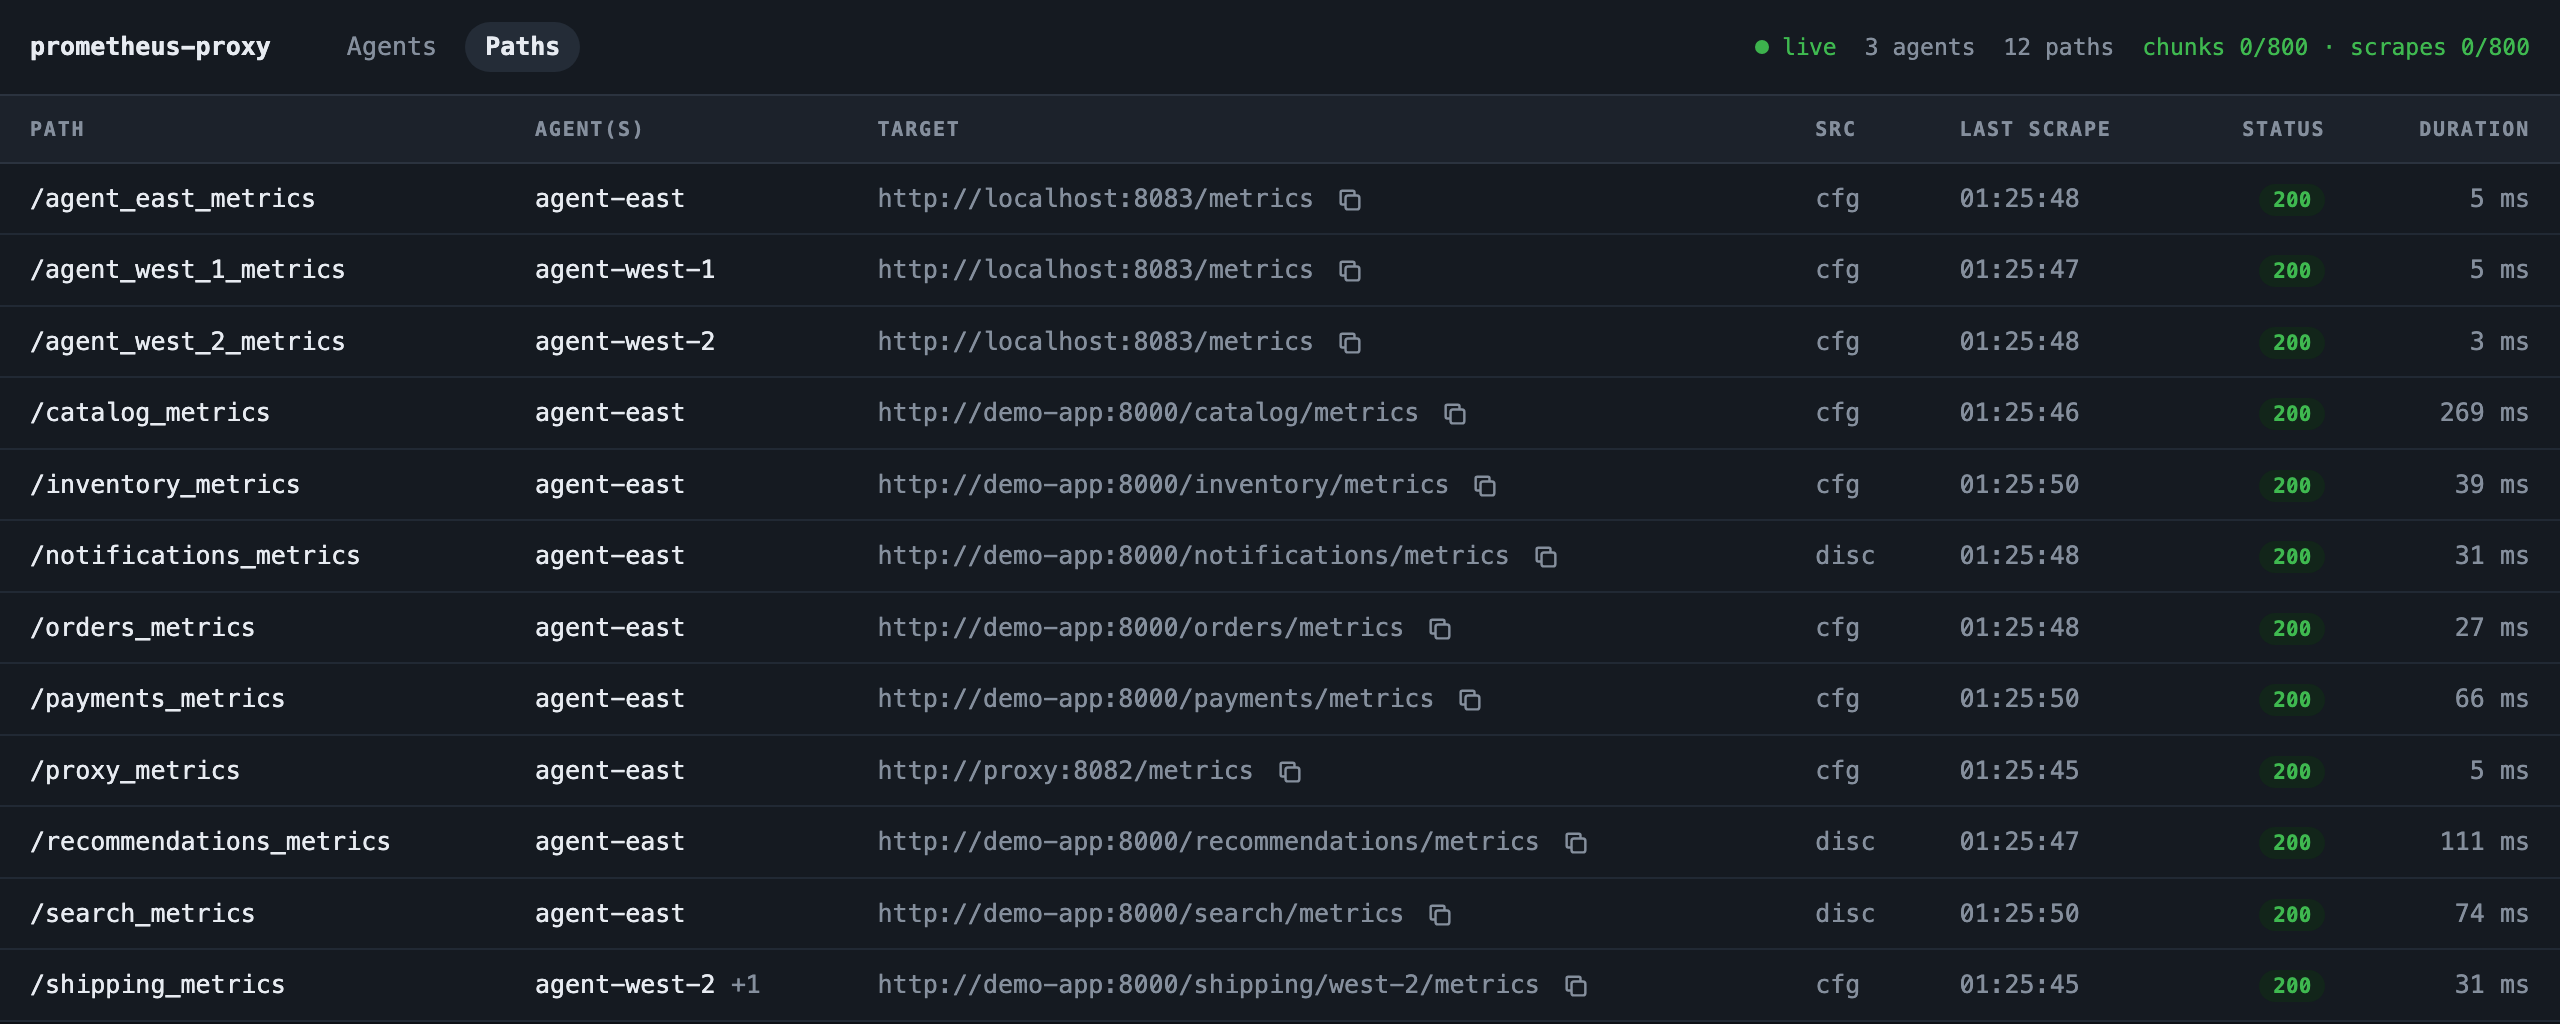
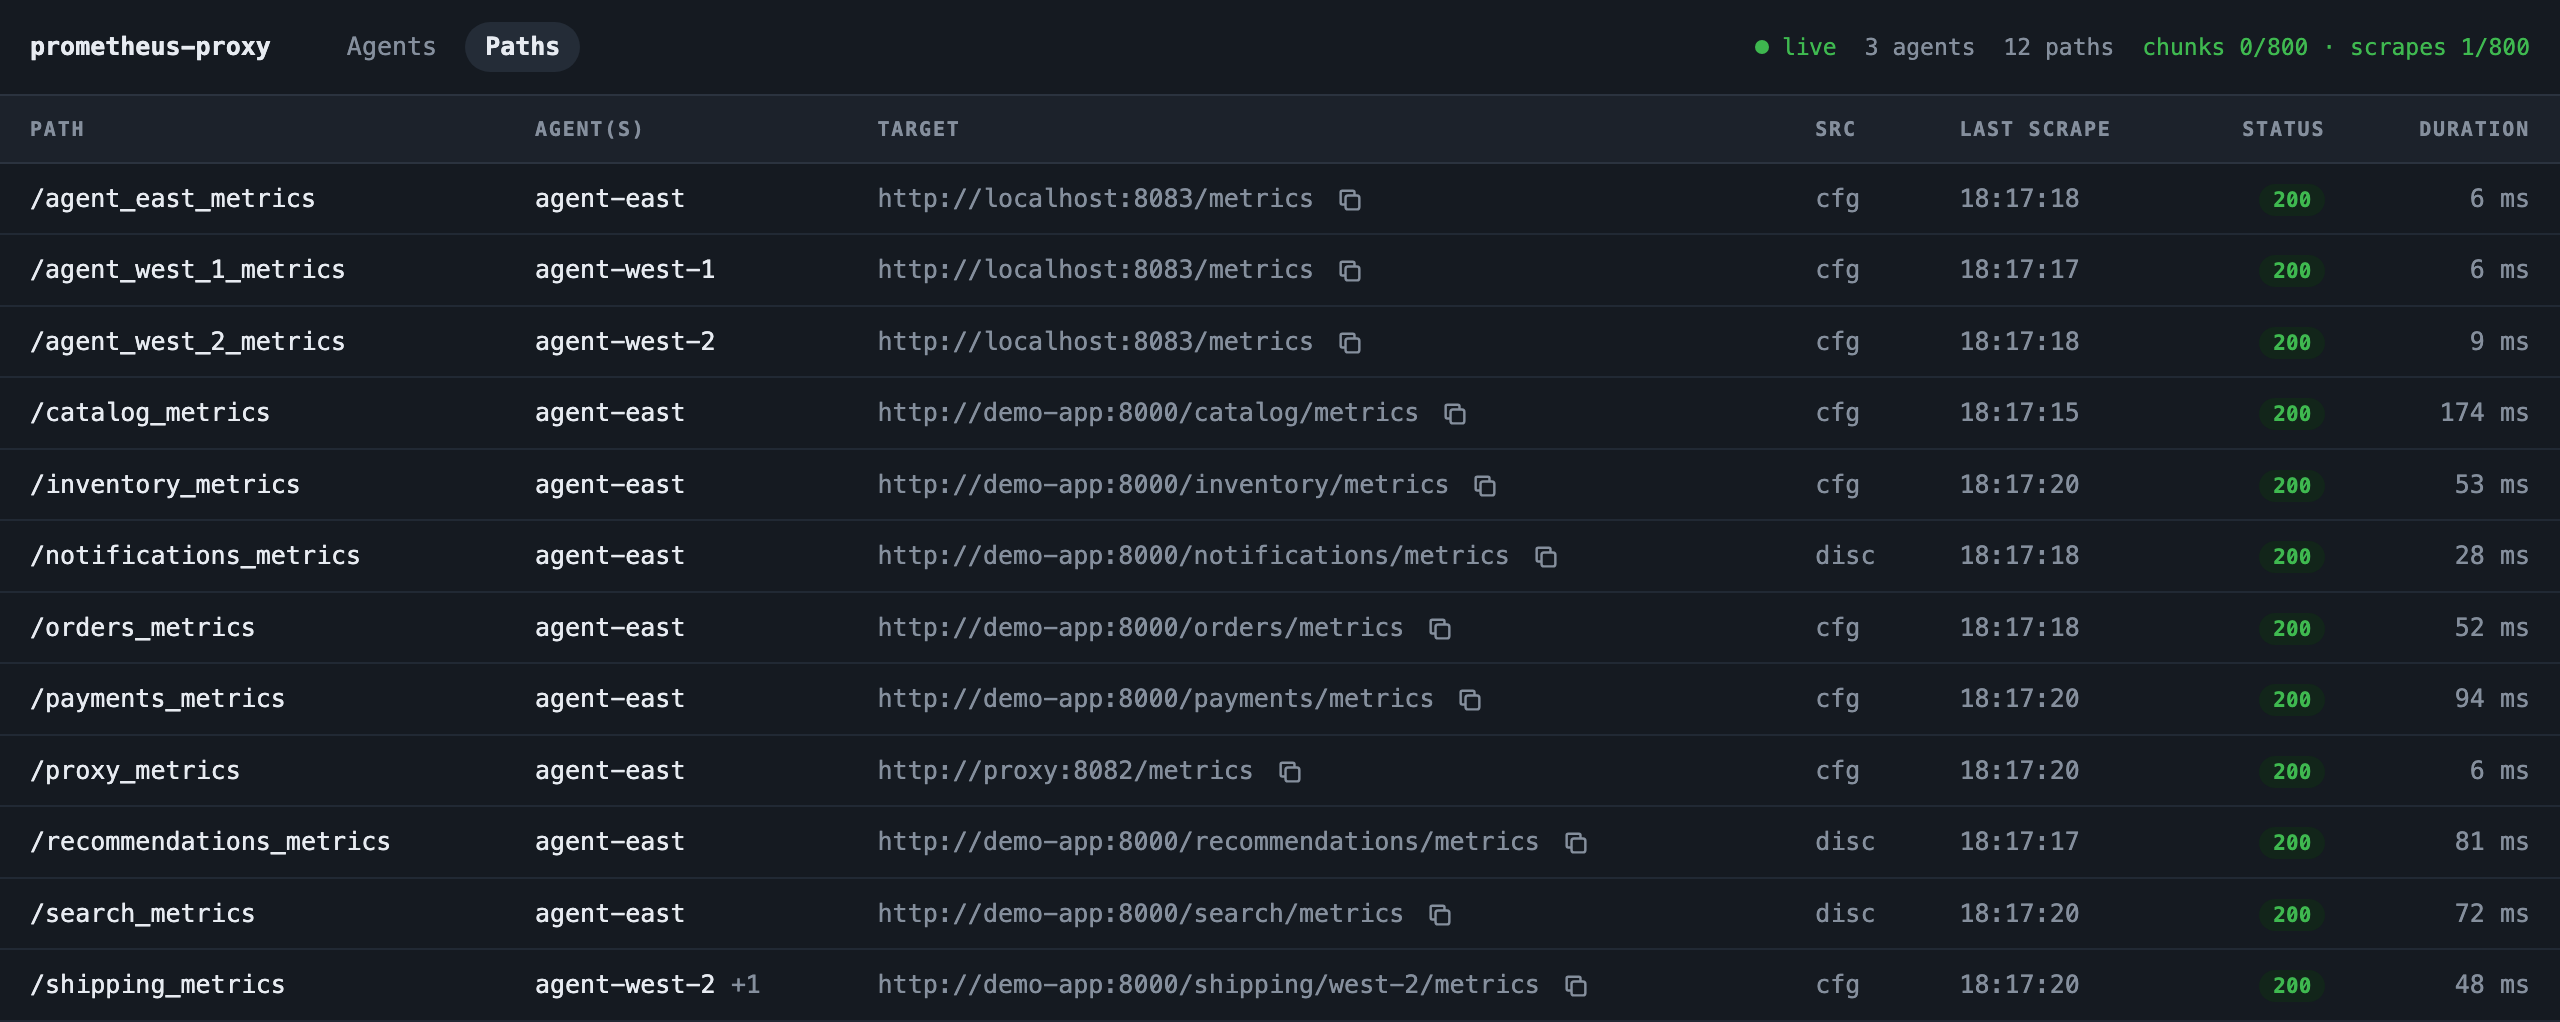
Add make demo-screenshots, and retake the Live Demo screenshots with it
demos/dashboard/screenshots.sh plays the Live Demo page's scenarios against the running demo,
waiting on the dashboard and Prometheus for each state, captures the dashboard and Grafana in
headless Chrome at 2x in the dark theme, crops each (the Paths views trim to their last row), and
writes lossless WebP to website/prometheus-proxy/docs/images/demo/. It puts the demo back to
normal when it finishes or fails. make demo-screenshots builds and starts the demo from the
checkout first, so the screenshots show the current dashboard; the seven here come from it.

The demo's README links to the Live Demo page and lists the script, and the docs-site skill says
where the screenshots come from.

diff --git a/.claude/skills/docs-site/SKILL.md b/.claude/skills/docs-site/SKILL.md
@@ -10,6 +10,7 @@ Documentation is built with [Zensical](https://zensical.org) (static site genera
 - **Config**: `website/prometheus-proxy/zensical.toml`
 - **Pages**: `website/prometheus-proxy/docs/` (Markdown with pymdownx extensions)
 - **Code snippets**: `src/test/kotlin/website/*.txt` (imported via `--8<--` snippet markers)
+- **Screenshots**: the Live Demo page's images (`docs/images/demo/*.webp`) come from `make demo-screenshots`, which runs `demos/dashboard/screenshots.sh` against a demo built from the checkout; retake them after a visible dashboard change
 - **Local preview**: `make site` (runs `cd website/prometheus-proxy && uv run zensical serve`; mkdocs-material is pinned in `website/pyproject.toml`)
 - **Build check**: `make build-site` (runs `uv run --locked zensical build --clean`), as CI's `docs-site` job does on every pull request; a missing snippet source fails it, since `zensical.toml` sets `check_paths = true`
 - **CI deploy**: `.github/workflows/docs.yml` (builds the site and the KDocs and deploys to GitHub Pages). A push to `master` deploys only once the version the site gives as its image tag and Maven coordinate (`make site-version`) is on Maven Central and Docker Hub, so a merged version bump waits for `make release`, which deploys with `make gh-docs` (a `workflow_dispatch`, which always deploys), while a docs change between releases deploys as it merges, whatever `gradle.properties` holds. CI installs a pinned uv (`version:` on both `setup-uv` steps); update it with the uv `website/uv.lock` is locked with

diff --git a/demos/dashboard/README.md b/demos/dashboard/README.md
@@ -4,6 +4,9 @@ A self-contained demo of Prometheus Proxy for customers. It runs the proxy with 
 simulated firewall, a set of simulated services, and Prometheus and Grafana. A presenter can show live traffic, failures
 and recovery, redundancy, dynamic discovery, and stale-agent eviction, all on one laptop.
 
+The website's [Live Demo](https://pambrose.github.io/prometheus-proxy/demo/) page walks through the same scenarios with
+screenshots of the dashboard and Grafana.
+
 ```
  demo-app  (simulated services: orders, payments, inventory, catalog, shipping, and three discoverable ones)
      ▲  scraped from inside the "firewall"
@@ -188,6 +191,7 @@ The services are `orders`, `payments`, `inventory`, `catalog`, and `shipping`, p
 | `grafana/` | The provisioned datasource, dashboard folder, and demo dashboard |
 | `app/demo_app.py` | The simulated services and their control API |
 | `demo.sh` | Starting, stopping, and the scenarios |
+| `screenshots.sh` | The Live Demo page's screenshots. `make demo-screenshots` builds and starts the demo, plays the scenarios, and writes them to `website/prometheus-proxy/docs/images/demo/` (needs Chrome, ImageMagick 7, and `cwebp`) |
 
 `make check-rules` validates the Prometheus config and both rule files with promtool, and `ConfigFileKeysTest` checks
 every key in `config/*.conf` against `config/config.conf`.
